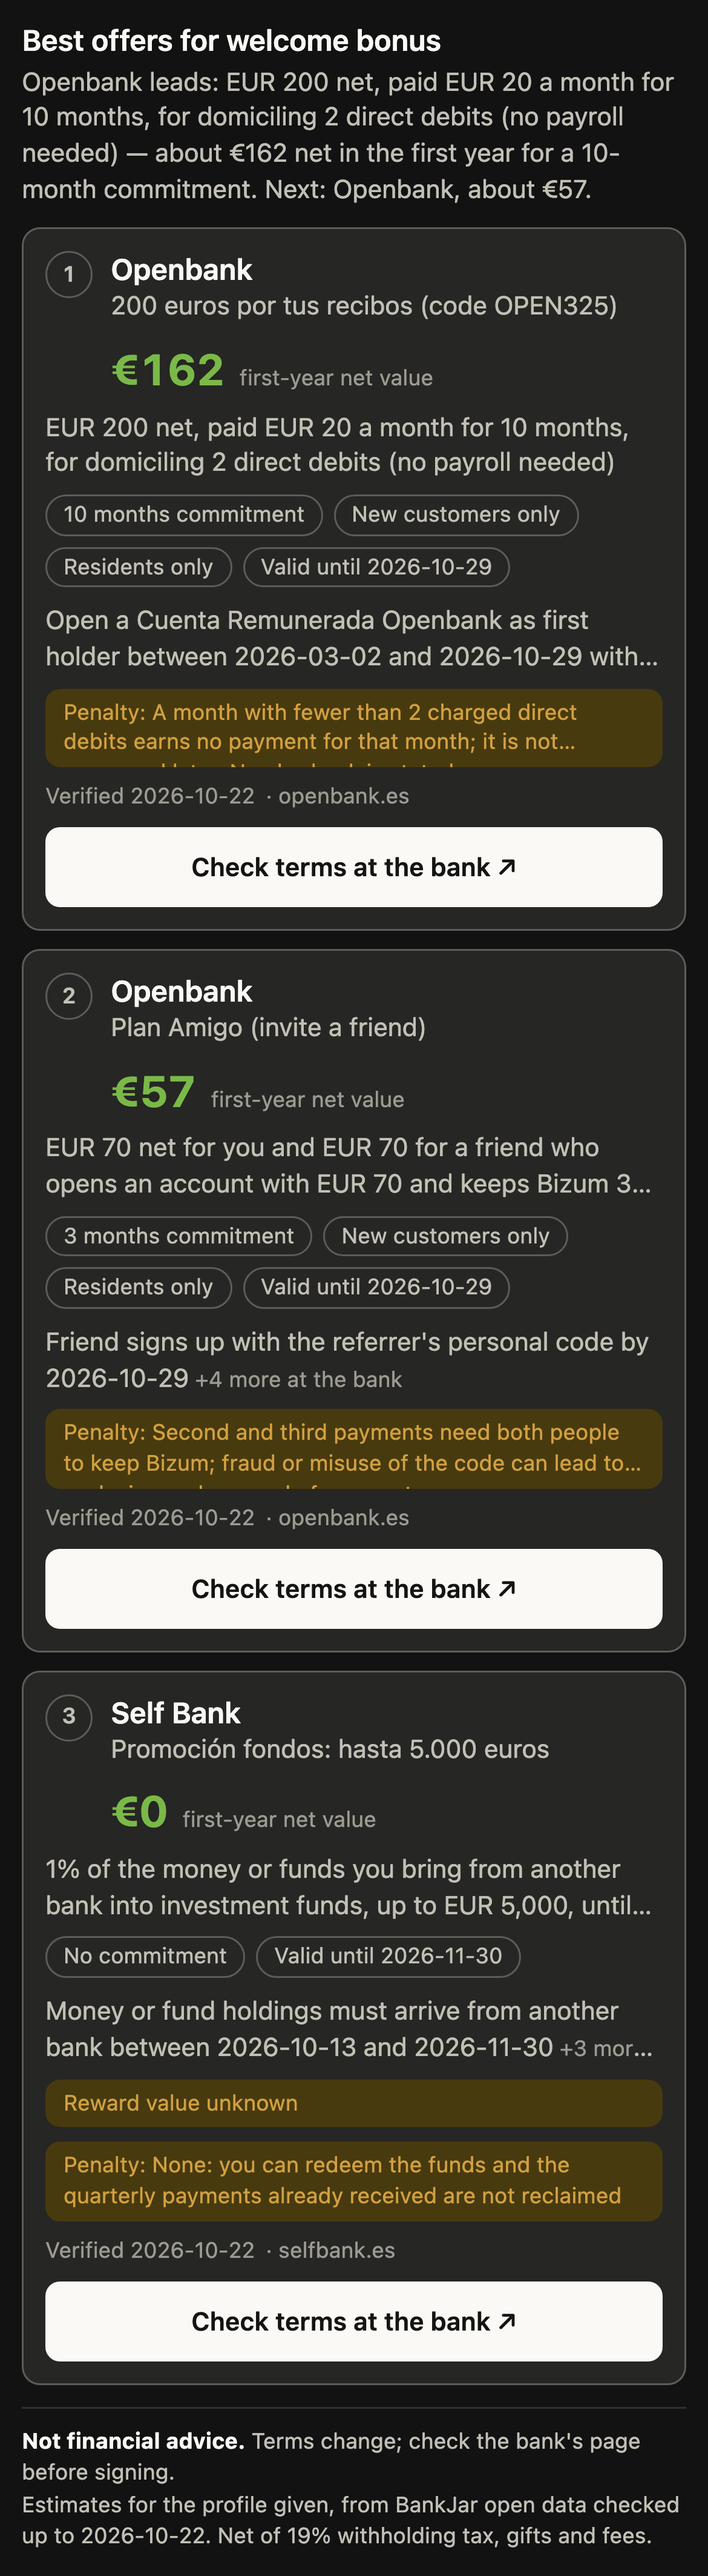
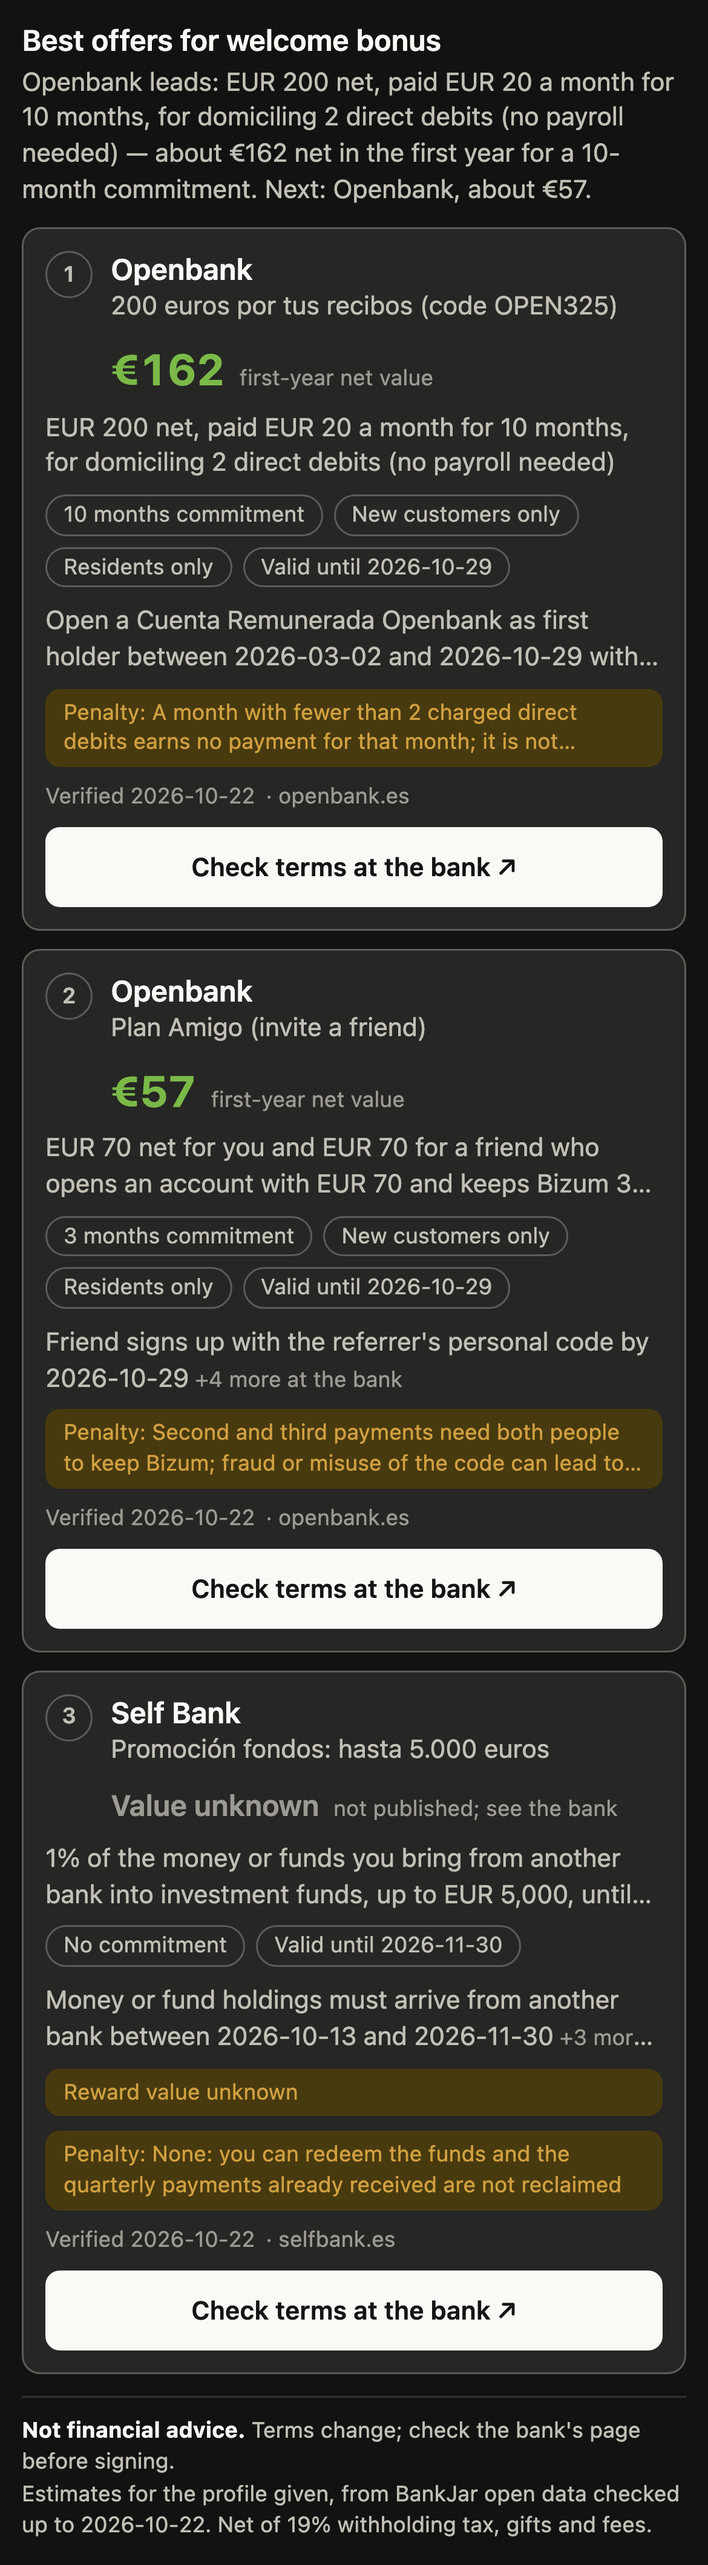
Widget: whole-line clamp on penalty boxes, show Value unknown instead of EUR 0
The penalty box clamped the padded element, so a half line showed under the
ellipsis; the clamp now sits on an inner element. An offer the engine flags
"reward value unknown" or "rate unknown" shows Value unknown, never EUR 0,
and cannot win Highest value here. Tests run the widget script on a fake DOM.
Screenshots regenerated.

diff --git a/tests/mcp.test.ts b/tests/mcp.test.ts
@@ -1,6 +1,6 @@
 import { Client } from "@modelcontextprotocol/sdk/client/index.js";
 import { StreamableHTTPClientTransport } from "@modelcontextprotocol/sdk/client/streamableHttp.js";
-import { Script } from "node:vm";
+import { Script, createContext } from "node:vm";
 import { afterAll, beforeAll, describe, expect, it } from "vitest";
 import { DELETE, GET, OPTIONS, POST } from "../app/mcp/route";
 import { DISCLAIMER } from "../src/server/api";
@@ -257,6 +257,111 @@ describe("MCP App: offer cards", () => {
       expect(typeof o.score.net_value_eur).toBe("number");
       expect(o.source_url).toMatch(/^https:/);
     }
+  });
+});
+
+/** Runs the widget script against a tiny fake DOM and returns the text of each card. */
+async function renderCards(structuredContent: unknown) {
+  type N = { tag: string; className: string; text: string; children: N[]; [k: string]: any };
+  const node = (tag: string): N => {
+    const n: N = {
+      tag, className: "", text: "", children: [], style: {},
+      appendChild(c: N) { n.children.push(c); return c; },
+      addEventListener() {}, setAttribute() {},
+    };
+    Object.defineProperty(n, "textContent", { set(v: string) { n.text = v; if (v === "") n.children = []; }, get: () => n.text });
+    return n;
+  };
+  const app = node("div");
+  const handlers: Record<string, (e: unknown) => void> = {};
+  const win: Record<string, unknown> = {
+    addEventListener: (t: string, h: (e: unknown) => void) => { handlers[t] = h; },
+    requestAnimationFrame: () => 0, innerWidth: 400,
+  };
+  win.parent = win;
+  const doc = {
+    getElementById: () => app,
+    createElement: node,
+    createTextNode: (t: string) => Object.assign(node("#text"), { text: t }),
+    documentElement: { style: { setProperty() {} }, setAttribute() {}, getBoundingClientRect: () => ({ height: 0 }) },
+    body: {},
+  };
+  const read = await client.readResource({ uri: OFFER_WIDGET_URI });
+  const script = (read.contents[0] as { text: string }).text.match(/<script>([\s\S]*?)<\/script>/)![1]!;
+  new Script(script).runInContext(createContext({ window: win, document: doc, requestAnimationFrame: () => 0, Intl, URL, console }));
+  handlers.message!({ data: { jsonrpc: "2.0", method: "ui/notifications/tool-result", params: { structuredContent } } });
+  const all = (n: N): string => [n.text, ...n.children.map(all)].filter(Boolean).join(" ");
+  const walk = (n: N, f: (x: N) => void): void => { f(n); n.children.forEach((c) => walk(c, f)); };
+  const cards: string[] = [];
+  const flagBoxes: N[] = [];
+  walk(app, (n) => {
+    if (n.className.split(" ").includes("card")) cards.push(all(n));
+    if (n.className === "flag") flagBoxes.push(n);
+  });
+  return { text: all(app), cards, flagBoxes };
+}
+
+describe("offer cards: unknown values and flag boxes", () => {
+  const row = (id: string, net: number, flags: string[], extra: Record<string, unknown> = {}) => ({
+    id, bank: `Bank ${id}`, product_name: `Product ${id}`, headline: "h", commitment_months: 0,
+    requirements: { min_monthly_income_eur: null, new_customer_only: null, other: [] }, fees: { monthly_eur: 0 },
+    eligibility: { residents_only: null }, penalty: null, rate_tae: null, valid_until: null,
+    source_url: "https://example.com/x", verified_on: "2026-10-22", stale: false,
+    score: { net_value_eur: net, flags }, ...extra,
+  });
+  const base = { goal: "welcome", summary: "s", dataset: { latest_verified_on: "2026-10-22" } };
+
+  it("the flag strings the widget matches are the engine's own", async () => {
+    const { scoreOffer } = await import("../src/core/score");
+    const { makeProfile } = await import("../src/core/profile");
+    const { loadOffers } = await import("../src/server/data");
+    const o = loadOffers()[0]!;
+    const cash = { ...o, reward: { type: "cash" as const, value_eur: null, description: "d", paid_when: null } };
+    const rate = { ...o, reward: { type: "rate" as const, value_eur: null, description: "d", paid_when: null }, rate_tae: null };
+    const profile = makeProfile({ goal: o.goal });
+    expect(scoreOffer(cash, profile, "2026-10-22").flags).toContain("reward value unknown");
+    expect(scoreOffer(rate, profile, "2026-10-22").flags).toContain("rate unknown");
+  });
+
+  it("shows Value unknown instead of EUR 0 for an unknown reward or rate, in search", async () => {
+    const r = await renderCards({ ...base, total_offers: 3, excluded: [], offers: [
+      row("a", 0, []), row("b", 0, ["reward value unknown"]), row("c", 0, ["rate unknown"]),
+    ] });
+    expect(r.cards).toHaveLength(3);
+    expect(r.cards[0]).toContain("€0");
+    for (const i of [1, 2]) {
+      expect(r.cards[i]).toContain("Value unknown");
+      expect(r.cards[i]).not.toContain("€0");
+      expect(r.cards[i]).not.toContain("first-year net value");
+    }
+  });
+
+  it("in compare, unknowns never win Highest value here", async () => {
+    const withUnknown = await renderCards({ ...base, missing: [], offers: [
+      { ...row("a", 0, ["reward value unknown"]), not_eligible_reasons: [] },
+      { ...row("b", 300, []), not_eligible_reasons: [] },
+      { ...row("c", 200, []), not_eligible_reasons: [] },
+    ] });
+    expect(withUnknown.cards[0]).toContain("Value unknown");
+    expect(withUnknown.cards[0]).not.toContain("Highest value here");
+    expect(withUnknown.cards[1]).toContain("Highest value here");
+    // Only one known value left: nothing to compare, no badge.
+    const one = await renderCards({ ...base, missing: [], offers: [
+      { ...row("a", 0, ["reward value unknown"]), not_eligible_reasons: [] },
+      { ...row("b", 300, []), not_eligible_reasons: [] },
+    ] });
+    expect(one.text).not.toContain("Highest value here");
+  });
+
+  it("a penalty box clamps an inner element, so the padded box never cuts a line in half", async () => {
+    const r = await renderCards({ ...base, total_offers: 1, excluded: [], offers: [row("a", 5, ["penalty: x".repeat(60)])] });
+    expect(r.flagBoxes).toHaveLength(1);
+    expect(r.flagBoxes[0]!.text).toBe("");
+    expect(r.flagBoxes[0]!.children[0]!.className).toBe("clamp");
+    const read = await client.readResource({ uri: OFFER_WIDGET_URI });
+    const css = (read.contents[0] as { text: string }).text.match(/<style>([\s\S]*?)<\/style>/)![1]!;
+    expect(css).toMatch(/\.flag \.clamp \{[^}]*-webkit-line-clamp: 2[^}]*overflow: hidden/);
+    expect(css).not.toMatch(/\.flag \{[^}]*(line-clamp|overflow: hidden)/);
   });
 });
 

diff --git a/src/server/mcp-widget.ts b/src/server/mcp-widget.ts
@@ -99,6 +99,7 @@ ul.list { list-style: none; margin: 12px 0 0; padding: 0; display: grid; gap: 10
 .value { text-align: right; flex: 0 0 auto; margin-left: auto; }
 .value .n { font-size: var(--font-heading-xl-size, 24px); font-weight: 700; line-height: 1.1; color: var(--bj-good); font-variant-numeric: tabular-nums; }
 .value .n.neg { color: var(--bj-bad); }
+.value .n.unk { font-size: var(--font-heading-md-size, 16px); line-height: 1.3; font-weight: 600; color: var(--bj-muted); }
 .value .l { color: var(--bj-muted); font-size: var(--font-text-xs-size, 12px); }
 .headline { margin: 0; color: var(--bj-text-2); display: -webkit-box; -webkit-line-clamp: 2; -webkit-box-orient: vertical; overflow: hidden; }
 .chips { display: flex; flex-wrap: wrap; gap: 6px; margin: 0; padding: 0; list-style: none; }
@@ -107,7 +108,8 @@ ul.list { list-style: none; margin: 12px 0 0; padding: 0; display: grid; gap: 10
 .chip.bad { background: var(--bj-bad-bg); color: var(--bj-bad); border-color: transparent; }
 .chip.good { background: var(--bj-good-bg); color: var(--bj-good); border-color: transparent; }
 .req { margin: 0; color: var(--bj-text-2); overflow-wrap: anywhere; display: -webkit-box; -webkit-line-clamp: 2; -webkit-box-orient: vertical; overflow: hidden; }
-.flag { margin: 0; padding: 5px 10px; border-radius: 8px; background: var(--bj-warn-bg); color: var(--bj-warn); font-size: var(--font-text-xs-size, 12px); overflow-wrap: anywhere; display: -webkit-box; -webkit-line-clamp: 2; -webkit-box-orient: vertical; overflow: hidden; }
+.flag { margin: 0; padding: 5px 10px; border-radius: 8px; background: var(--bj-warn-bg); color: var(--bj-warn); font-size: var(--font-text-xs-size, 12px); overflow-wrap: anywhere; }
+.flag .clamp { display: -webkit-box; -webkit-line-clamp: 2; -webkit-box-orient: vertical; overflow: hidden; }
 .note { margin: 0; padding: 8px 10px; border-radius: 8px; background: var(--bj-bad-bg); color: var(--bj-bad); overflow-wrap: anywhere; }
 .bottom { display: flex; flex-wrap: wrap; gap: 8px 12px; align-items: center; justify-content: space-between; }
 .meta { display: flex; flex-wrap: wrap; gap: 6px; align-items: center; color: var(--bj-muted); font-size: var(--font-text-xs-size, 12px); }
@@ -252,6 +254,12 @@ const JS = String.raw`
     list.appendChild(el("li", "chip" + (kind ? " " + kind : ""), text));
   }
 
+  // The engine scores an unknown reward or rate as 0 and says so in flags; a figure we do not know must not read as EUR 0.
+  function unknownValue(o) {
+    var flags = (o.score && o.score.flags) || [];
+    return flags.indexOf("reward value unknown") !== -1 || flags.indexOf("rate unknown") !== -1;
+  }
+
   // ---- one offer card ----
   function card(o, index, opts) {
     var score = o.score || {};
@@ -267,8 +275,13 @@ const JS = String.raw`
     who.appendChild(names);
     top.appendChild(who);
     var val = el("div", "value");
-    val.appendChild(el("div", "n" + (score.net_value_eur < 0 ? " neg" : ""), eur(score.net_value_eur)));
-    val.appendChild(el("div", "l", reasons.length ? "first-year net value, if eligible" : "first-year net value"));
+    if (unknownValue(o)) {
+      val.appendChild(el("div", "n unk", "Value unknown"));
+      val.appendChild(el("div", "l", "not published; see the bank"));
+    } else {
+      val.appendChild(el("div", "n" + (score.net_value_eur < 0 ? " neg" : ""), eur(score.net_value_eur)));
+      val.appendChild(el("div", "l", reasons.length ? "first-year net value, if eligible" : "first-year net value"));
+    }
     top.appendChild(val);
     li.appendChild(top);
 
@@ -296,7 +309,13 @@ const JS = String.raw`
 
     var flags = (score.flags || []).slice();
     if (o.penalty && !flags.some(function (f) { return f.indexOf(o.penalty) !== -1; })) flags.push("penalty: " + o.penalty);
-    flags.forEach(function (f) { f = f.charAt(0).toUpperCase() + f.slice(1); var fp = el("p", "flag", f); fp.title = f; li.appendChild(fp); });
+    flags.forEach(function (f) {
+      f = f.charAt(0).toUpperCase() + f.slice(1);
+      var fp = el("p", "flag");
+      fp.title = f;
+      fp.appendChild(el("span", "clamp", f));
+      li.appendChild(fp);
+    });
 
     if (reasons.length) li.appendChild(el("p", "note", "Not available to this profile: " + reasons.join("; ") + "."));
 
@@ -360,7 +379,7 @@ const JS = String.raw`
 
     var best = -1;
     if (isCompare) {
-      var eligible = offers.filter(function (o) { return !(o.not_eligible_reasons || []).length; });
+      var eligible = offers.filter(function (o) { return !(o.not_eligible_reasons || []).length && !unknownValue(o); });
       if (eligible.length > 1) {
         var top = eligible.reduce(function (m, o) { return o.score.net_value_eur > m.score.net_value_eur ? o : m; }, eligible[0]);
         var ties = eligible.filter(function (o) { return o.score.net_value_eur === top.score.net_value_eur; });
